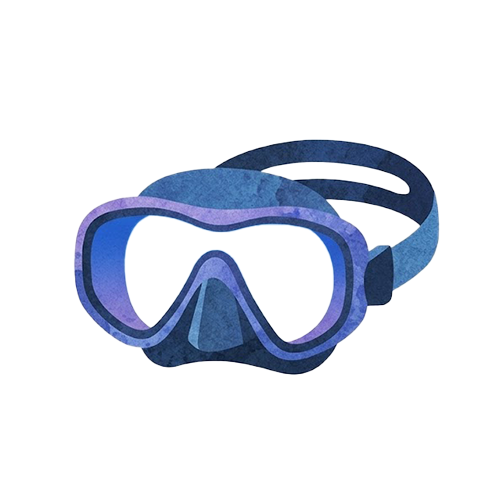
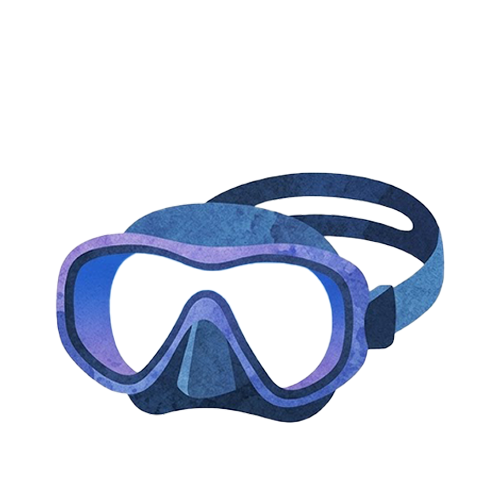
update

Changed region(s): [[0.09, 0.27, 0.9, 0.87]]

diff --git a/css/homework1.css b/css/homework1.css
@@ -87,12 +87,14 @@ nav a:hover {
   display: block;    /* 消除圖片下方預設的微小空白間隙 */
   }
 
+
+  
 #model-1 {
   position: absolute;
   top: 150px;
   width: 100%;
   height: 350px;
-  z-index: 3;
+  z-index: 4;
 }
 
 #model-2 {
@@ -100,7 +102,100 @@ nav a:hover {
   top: 350px;
   width: 100%;
   height: 1600px;
-  z-index: 2;
+  z-index: 3;
+}
+
+.bubbles-container {
+    position: fixed;
+    top: 0;
+    left: 0;
+    width: 100%;
+    height: 100vh;
+    overflow: hidden;
+    z-index: 2;
+}
+
+/* 單顆氣泡的基礎樣式 */
+.bubble {
+    position: absolute;
+    bottom: -50px; /* 從畫面下方外面開始 */
+    background: rgba(255, 255, 255, 0.4); /* 半透明白色，如果背景是白色可以改成淡藍或淺灰色 */
+    border-radius: 50%;
+    animation: riseAndFloat linear infinite;
+}
+
+/* 定義氣泡往上浮動與左右搖晃的關鍵影格 */
+@keyframes riseAndFloat {
+    0% {
+        transform: translateY(0) translateX(0);
+        opacity: 0;
+    }
+    20% {
+        opacity: 0.6;
+    }
+    80% {
+        opacity: 0.6;
+    }
+    100% {
+        transform: translateY(-110vh) translateX(30px); /* 往上浮動超過整個畫面高度 */
+        opacity: 0;
+    }
+}
+
+/* 透過 nth-child 隨機化每顆氣泡的大小、位置、動畫速度和延遲時間，製造自然錯落感 */
+.bubble:nth-child(1) {
+    left: 10%;
+    width: 20px;
+    height: 20px;
+    animation-duration: 7s;
+    animation-delay: 0s;
+}
+
+.bubble:nth-child(2) {
+    left: 30%;
+    width: 35px;
+    height: 35px;
+    animation-duration: 10s;
+    animation-delay: 2s;
+}
+
+.bubble:nth-child(3) {
+    left: 50%;
+    width: 15px;
+    height: 15px;
+    animation-duration: 6s;
+    animation-delay: 1s;
+}
+
+.bubble:nth-child(4) {
+    left: 70%;
+    width: 25px;
+    height: 25px;
+    animation-duration: 9s;
+    animation-delay: 4s;
+}
+
+.bubble:nth-child(5) {
+    left: 85%;
+    width: 40px;
+    height: 40px;
+    animation-duration: 12s;
+    animation-delay: 3s;
+}
+
+.bubble:nth-child(6) {
+    left: 20%;
+    width: 18px;
+    height: 18px;
+    animation-duration: 8s;
+    animation-delay: 5s;
+}
+
+footer{
+    clear: both;
+    width: 100%;
+    padding: 50px 0px;
+    text-align: center;
 }
 
 /*for tablets*/

diff --git a/css/p2.css b/css/p2.css
@@ -8,7 +8,7 @@ body {
   font-family: Arial, sans-serif;
   color: #111;
   background-color: #feffff;
-  padding-top: 60px;
+  padding-top: 50px;
 }
 
 /* ===== 連結 ===== */
@@ -275,7 +275,7 @@ h5 {
 .card {
     width: 300px;
     height: 350px;
-    background: #ffffff;
+    background: rgba(253, 253, 253, 0.76);
     border-radius: 20px;
     position: relative; /* 讓右下角的圖片能以卡片為基準進行絕對定位 */
     overflow: hidden;
@@ -283,6 +283,8 @@ h5 {
     flex-direction: column;
     transition: transform 0.3s cubic-bezier(0.25, 1, 0.5, 1), box-shadow 0.3s ease;
     cursor: pointer;
+    border-radius: 20px;
+    border: 1px solid #ececec; /* 加上框線 */
 }
 
 /* 滑鼠懸停（Hover）互動效果：卡片向上浮起與陰影加深 */
@@ -292,16 +294,16 @@ h5 {
 }
 
 /* 文字說明區塊 */
-.card-body {
-    padding: 20px;
+.card-body { 
+    padding: 5px 20px 20px 15px;
     display: flex;
     flex-direction: column;
     gap: 8px;
     flex-grow: 1;
-    padding-right: 70px; /* 預留右下角圖片空間 */
 }
 
 .card-title {
+    padding: 15px 0px;
     font-size: 18pt;
     font-weight: 600;
     color: #1d1d1f;
@@ -309,22 +311,39 @@ h5 {
 }
 
 .card-text {
-    font-size: 10pt;
-    color: #6e6e73;
-    line-height: 1.4;
-    letter-spacing: 0.5px;
+    font-size: 9pt;
+    color: #3e3e3e;
+    line-height: 1.6;
+    letter-spacing: 1px;
 }
 
 /* 每張卡片右下角的圖片 */
 .card-corner-img {
     position: absolute;
-    right: 20px;
-    bottom: 20px;
+    right: 10px;
+    bottom: 5px;
     width: 150px;
     height: 150px;
     object-fit: cover;
 }
 
+.card-link {
+    position: absolute;
+    top: 0;
+    left: 0;
+    width: 100%;
+    height: 100%;
+    display: flex;
+    flex-direction: column;
+    color: inherit;       /* 繼承原本的文字顏色，避免連結變色或帶底線 */
+    text-decoration: none;
+    z-index: 1;
+}
+
+.card-link:hover {
+    text-decoration: none;
+    color: inherit;
+}
 
 
 /* 文字排版 */
@@ -347,6 +366,13 @@ h5 {
   font-size: 15px;
   color: #666;
   line-height: 1.7;
+}
+
+footer{
+    clear: both;
+    width: 100%;
+    padding: 50px 0px;
+    text-align: center;
 }
 
 

diff --git a/p2.html b/p2.html
@@ -131,6 +131,7 @@
 <div class="cards-container">
         <!-- 卡片 1 -->
         <div class="card">
+          <a href="index.html" class="card-link"></a>
             <div class="card-body">
                 <h3 class="card-title">Snorkel</h3>
                 <p class="card-text">呼吸管讓潛水員在水面浮潛或準備下潛時，能夠將臉部留在水中並維持呼吸，有助於保留體力與觀察水面狀況。</p>
@@ -141,6 +142,7 @@
 
         <!-- 卡片 2 -->
         <div class="card">
+          <a href="index.html" class="card-link"></a>
             <div class="card-body">
                 <h3 class="card-title">Mask</h3>
                 <p class="card-text">面鏡是水下視野的窗口，主要功能是在眼睛前方創造一個空氣空間，讓人眼能夠在水中正常聚焦。</p>
@@ -151,6 +153,7 @@
 
         <!-- 卡片 3 -->
         <div class="card">
+          <a href="index.html" class="card-link"></a>
             <div class="card-body">
                 <h3 class="card-title">Fins</h3>
                 <p class="card-text">蛙鞋能提供水中的主要推進力，大幅提升移動效率並減少雙腿的體力消耗。</p>

diff --git a/index.html b/index.html
@@ -64,8 +64,16 @@
         </model-viewer>
 
     </div>
+    <!-- 浮動氣泡背景容器 -->
+<div class="bubbles-container">
+    <div class="bubble"></div>
+    <div class="bubble"></div>
+    <div class="bubble"></div>
+    <div class="bubble"></div>
+    <div class="bubble"></div>
+    <div class="bubble"></div>
+</div>
 
-    
 <footer>
     All Right Reserved.
 </footer>
